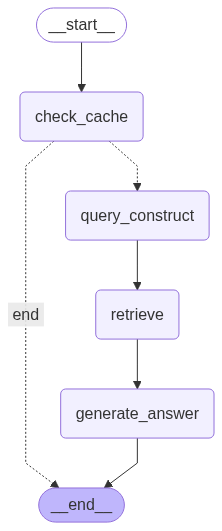
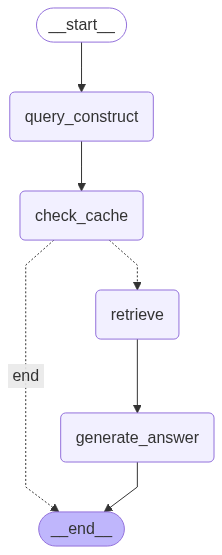
Implement query refinement before cache check to improve conversational context handling and search accuracy.

diff --git a/nodes.py b/nodes.py
@@ -1,25 +1,104 @@
-from langchain_core.messages import AIMessage
+from langchain_core.messages import AIMessage, HumanMessage
 from langchain_core.documents import Document
 from config import cache_store, chroma_store, bm25_retriever, llm, reranker_model
 from state import QueryConstruct, FinancialAnalysisState, Metadata
 from langchain_core.prompts import ChatPromptTemplate
 
+# Query Construction Node
+def query_construct(state: FinancialAnalysisState):
+    """
+    Analyzes the user's message and conversation history to create a structured query.
+    It extracts metadata filters and refines the user's query into a standalone question
+    optimized for retrieval. This is the first step to understand user intent.
+    """
+    messages = state['messages']
+    query = messages[-1].content
+    
+    # Extract the last two messages (if they exist) to provide context.
+    if len(messages) > 1:
+        previous_messages = messages[:-1]
+        context_messages = previous_messages[-2:]
+        conversation_context = "\n".join(
+            [f"{'User' if isinstance(m, HumanMessage) else 'Assistant'}: {m.content}" for m in context_messages]
+        )
+    else:
+        # If this is the first message, there is no context.
+        conversation_context = "This is the first question from the user."
+    
+    # Create Prompt Template
+    prompt = ChatPromptTemplate.from_messages([
+        ("system",
+         "You are an expert at query analysis and refinement for a financial RAG system. "
+         "Your task is to analyze the user's latest query in the context of the recent conversation history. "
+         "You must produce two outputs in a structured format:\n"
+         "1. `filter`: Extract a metadata filter (company ticker and category) from the user's **latest query only**. "
+         "   - Company tickers: AAPL, MSFT, GOOG, AMZN, META. "
+         "   - Categories: 'risks', 'management_dis'. "
+         "   - If not mentioned, set the value to null.\n"
+         "2. `refined_query`: Rewrite the user's latest query into a clear, self-contained question. "
+         "   - Use the 'Conversation Context' to resolve pronouns (e.g., 'it', 'they') or follow-up questions (e.g., 'what about for them?'). "
+         "   - If the new query is on a completely different topic, ignore the context and create a standalone query. "
+         "   - The refined query should be optimized for a vector database search.\n\n"
+         "Examples:\n"
+         "--- (Example 1: Follow-up question) ---\n"
+         "Conversation Context:\nUser: What are the main risks for Apple?\nAssistant: [Provides answer about Apple's risks]\n"
+         "User Query: What about for Microsoft?\n"
+         "Your Output: {{'filter': {{'company': 'MSFT', 'category': 'risks'}}, 'refined_query': 'What are the main risks for Microsoft?'}}\n\n"
+         "--- (Example 2: Standalone question) ---\n"
+         "Conversation Context:\nUser: How was Amazon's revenue last year?\nAssistant: [Provides answer about AMZN revenue]\n"
+         "User Query: Tell me about Google's management discussion.\n"
+         "Your Output: {{'filter': {{'company': 'GOOG', 'category': 'management_dis'}}, 'refined_query': 'What is discussed in Google's management discussion and analysis section?'}}\n\n"
+         "--- (Example 3: First question) ---\n"
+         "Conversation Context:\nThis is the first question from the user.\n"
+         "User Query: meta risks\n"
+         "Your Output: {{'filter': {{'company': 'META', 'category': 'risks'}}, 'refined_query': 'What are the main business and operational risks for Meta?'}}"),
+        ("human", "Conversation Context:\n{conversation_context}\n\nUser Query: {query}")
+    ])
+    
+    try:
+        structured_llm = llm.with_structured_output(QueryConstruct)
+        
+        # Generate the structured filter and refined query
+        query_construct_output = structured_llm.invoke(
+            prompt.format_messages(conversation_context=conversation_context, query=query)
+        )
+        
+        if query_construct_output is None:
+            # If the LLM fails to produce structured output, create a fallback.
+            query_construct_output = QueryConstruct(
+                filter=Metadata(),
+                refined_query=query
+            )
+        
+        # Update the state with the constructed object
+        state['structured_query'] = query_construct_output
+        
+    except Exception as e:
+        # Create a fallback QueryConstruct if structured output fails
+        fallback_output = QueryConstruct(
+            filter=Metadata(),
+            refined_query=query
+        )
+        state['structured_query'] = fallback_output
+    
+    return state
+
 # Check Cache Node
 def check_cache(state: FinancialAnalysisState):
     """
-    Checks if the user's query is in the Redis cache.
+    Checks if the refined query is in the Redis cache. This now runs *after* query construction.
     """
-    # Get the last human message
-    query = state['messages'][-1].content
+    # Use the self-contained, refined query for the cache check.
+    refined_query = state['structured_query'].refined_query
     
     # Perform a similarity search on the cache with a threshold
-    # Note: `similarity_search_with_score` returns a list of tuples (document, score)
-    results = cache_store.similarity_search_with_score(query=query, k=1)
+    results = cache_store.similarity_search_with_score(query=refined_query, k=1)
     
-    if results and (1 - abs(results[0][1]) >= 0.85):  # Check for a cache hit with a 0.85 similarity threshold
+    if results and (1 - abs(results[0][1]) >= 0.90):  # Using a slightly higher threshold 0.9 for refined queries
         # Cache hit, retrieve the stored answer
         cached_answer = results[0][0].metadata.get("response")
         state['cache_hit'] = True
+        # Append the cached answer as a new AI message
         state['messages'].append(AIMessage(content=cached_answer))
     else:
         # No cache hit
@@ -27,61 +106,13 @@ def check_cache(state: FinancialAnalysisState):
     
     return state
 
-# Query Construction Node
-def query_construct(state: FinancialAnalysisState):
-    """
-    Uses an LLM to extract a search query and a metadata filter from the user's message.
-    """
-    query = state['messages'][-1].content
-    
-    prompt = ChatPromptTemplate.from_messages([
-        ("system", 
-         "You are an expert at extracting a structured metadata filter from a user's question about financial filings. "
-         "Analyze the user's query and extract the company ticker and category if they are explicitly mentioned. "
-         "Company tickers: AAPL (Apple), MSFT (Microsoft), GOOG (Google), AMZN (Amazon), META (Meta/Facebook). "
-         "Categories: 'risks' for risk factors, 'management_dis' for management discussion and analysis. "
-         "If a company or category is not explicitly mentioned or cannot be determined, set it to null. "
-         "Examples:\n"
-         "- 'What are the risks for Apple?' -> company: 'AAPL', category: 'risks'\n"
-         "- 'Tell me about management discussion for Google' -> company: 'GOOG', category: 'management_dis'\n"
-         "- 'How has Amazon performed?' -> company: 'AMZN', category: null\n"
-         "- 'What are the risks of tech companies?' -> company: null, category: 'risks'\n"
-         "- 'Tell me about financial performance' -> company: null, category: null"),
-        ("human", "User query: {query}")
-    ])
-    
-    try:
-        structured_llm = llm.with_structured_output(QueryConstruct)
-        
-        # Generate the structured filter
-        query_construct_output = structured_llm.invoke(prompt.format_messages(query=query))
-        
-        # If the output is None or invalid, create a default QueryConstruct
-        if query_construct_output is None:
-            query_construct_output = QueryConstruct(filter=Metadata())
-        
-        # Update the state with the constructed filter
-        state['query_construction'] = query_construct_output
-        
-    except Exception as e:
-        # Create a fallback QueryConstruct if structured output fails
-        state['query_construction'] = QueryConstruct(filter=Metadata())
-    
-    return state
-
 # Retriever Node
 def retrieve(state: FinancialAnalysisState):
     """
-    Retrieves documents using a hybrid search approach, then reranks them for relevance.
-    1. Performs a filtered semantic search with ChromaDB.
-    2. Performs a keyword search with BM25.
-    3. Combines and de-duplicates the results.
-    4. Reranks the unique documents using a Cross-Encoder model.
-    5. Selects the top N documents to create a rich, focused context.
+    Retrieves documents using a hybrid search approach based on the refined query.
     """
-
-    query_text = state['messages'][-1].content
-    metadata_filter = state['query_construction'].filter.model_dump()
+    query_text = state['structured_query'].refined_query
+    metadata_filter = state['structured_query'].filter.model_dump()
     
     # Build the filter for ChromaDB
     cleaned_filter = {k: v for k, v in metadata_filter.items() if v is not None}
@@ -115,13 +146,8 @@ def retrieve(state: FinancialAnalysisState):
 
         # Reranking documents
         if unique_docs:
-            # Create pairs of [query, document_content] for the reranker model
             rerank_pairs = [[query_text, doc.page_content] for doc in unique_docs]
-            
-            # Get relevance scores from the model
             scores = reranker_model.predict(rerank_pairs)
-            
-            # Combine documents with their scores and sort
             scored_docs = list(zip(scores, unique_docs))
             scored_docs.sort(reverse=True)
 
@@ -141,12 +167,13 @@ def retrieve(state: FinancialAnalysisState):
 def generate_answer(state: FinancialAnalysisState):
     """
     Generates a final answer using the LLM and retrieved documents as context,
-    and stores the answer in the cache.
+    and stores the answer in the cache against the refined query.
     """
-    # Get the original human query
+    # Use the original human query for the final prompt context
     original_query = state['messages'][-1].content
+    # Use the refined query for caching
+    refined_query = state['structured_query'].refined_query
     
-    # Get the retrieved documents for context
     documents = state['source_documents']
     
     if documents:
@@ -171,22 +198,20 @@ def generate_answer(state: FinancialAnalysisState):
     
     try:
         chain = prompt | llm
+        # The LLM answers the original question, but using the context retrieved by the refined query
         answer_message = chain.invoke({"context": context, "question": original_query})
         
-        # Check if the response from the LLM is empty (due to safety filters, etc.)
         if not answer_message.content:
             fallback_response = AIMessage(content="I was unable to generate a response for this query, possibly due to a content filter. Please try rephrasing your question.")
             state['messages'].append(fallback_response)
         else:
-            # Update messages with the AI's response
             state['messages'].append(answer_message)
             
-            # Store the query and answer in the cache for future use
-            new_doc = Document(page_content=original_query, metadata={"response": answer_message.content})
+            # Store the refined query and its answer in the cache
+            new_doc = Document(page_content=refined_query, metadata={"response": answer_message.content})
             cache_store.add_documents([new_doc])
-        
+            
     except Exception as e:
-        # Create a fallback response
         fallback_response = AIMessage(content=f"I apologize, but I encountered an error while processing your query: '{original_query}'. Please try again.")
         state['messages'].append(fallback_response)
     

diff --git a/graph.py b/graph.py
@@ -8,38 +8,49 @@ from state import FinancialAnalysisState
 def route_after_cache(state: FinancialAnalysisState):
     """
     Determines the next step based on whether a cache hit occurred.
+    If a hit is found, the graph ends. Otherwise, it proceeds to retrieve documents.
     """
     if state['cache_hit']:
         return "end"
     else:
-        return "query_construct"
+        return "retrieve"
 
 # --- Define the graph ---
 def create_graph():
+    """
+    Creates and compiles the LangGraph agent for financial analysis.
+    The flow is:
+    1. Construct/refine the query.
+    2. Check the cache with the refined query.
+    3. If cache miss, retrieve documents.
+    4. Generate the final answer.
+    """
     workflow = StateGraph(FinancialAnalysisState)
 
     # --- Add nodes ---
-    workflow.add_node("check_cache", check_cache)
     workflow.add_node("query_construct", query_construct)
+    workflow.add_node("check_cache", check_cache)
     workflow.add_node("retrieve", retrieve)
     workflow.add_node("generate_answer", generate_answer)
 
     # --- Add edges ---
-    # connect the entry point to the cache check
-    workflow.set_entry_point("check_cache")
+    # The entry point is now query construction.
+    workflow.set_entry_point("query_construct")
 
-    # Conditional edge from the cache check node
+    # After constructing the query, check the cache.
+    workflow.add_edge("query_construct", "check_cache")
+
+    # Add the conditional edge after the cache check.
     workflow.add_conditional_edges(
         "check_cache",
         route_after_cache,
         {
-            "query_construct": "query_construct",
+            "retrieve": "retrieve", 
             "end": END
         }
     )
 
-    # Edges for the main RAG chain
-    workflow.add_edge("query_construct", "retrieve")
+    # Edges for the main RAG chain (if cache is missed)
     workflow.add_edge("retrieve", "generate_answer")
     workflow.add_edge("generate_answer", END)
 
@@ -48,5 +59,6 @@ def create_graph():
         conn=get_db_connection(autocommit=True)
     )
     
-    return workflow.compile(checkpointer=checkpointer)
-
+    app = workflow.compile(checkpointer=checkpointer)
+    
+    return app

diff --git a/state.py b/state.py
@@ -22,11 +22,18 @@ class Metadata(BaseModel):
 class QueryConstruct(BaseModel):
     """
     A Pydantic model to represent the structured output for query construction.
-    This is the output schema for the LLM that analyzes the user's intent.
+    This is the output schema for the LLM that analyzes the user's intent and conversation history.
     """
     filter: Metadata = Field(
         default_factory=Metadata,
-        description="A structured filter to be applied to the vector database query."
+        description="A structured filter to be applied to the vector database query based on the user's latest query."
+    )
+    refined_query: str = Field(
+        ...,
+        description=(
+            "A rewritten, self-contained query that incorporates context from the conversation. "
+            "This query is optimized for vector database retrieval."
+        )
     )
 
 # --- LangGraph State Definition ---
@@ -41,8 +48,8 @@ class FinancialAnalysisState(TypedDict):
     messages: Annotated[Sequence[BaseMessage], add_messages]
     
     # The result of the query construction node.
-    # It contains the query text and the metadata filter.
-    query_construction: QueryConstruct
+    # It contains the refined query and the metadata filter.
+    structured_query: QueryConstruct
     
     # The documents retrieved from the vector database.
     # This is the context used by the LLM to formulate the final answer.
